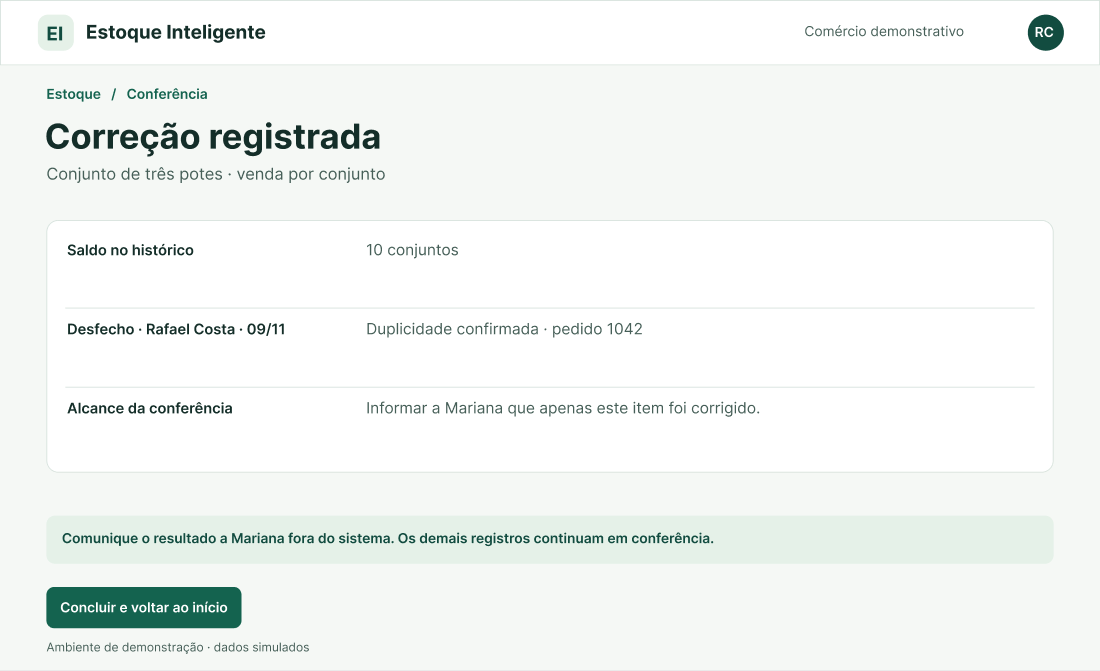
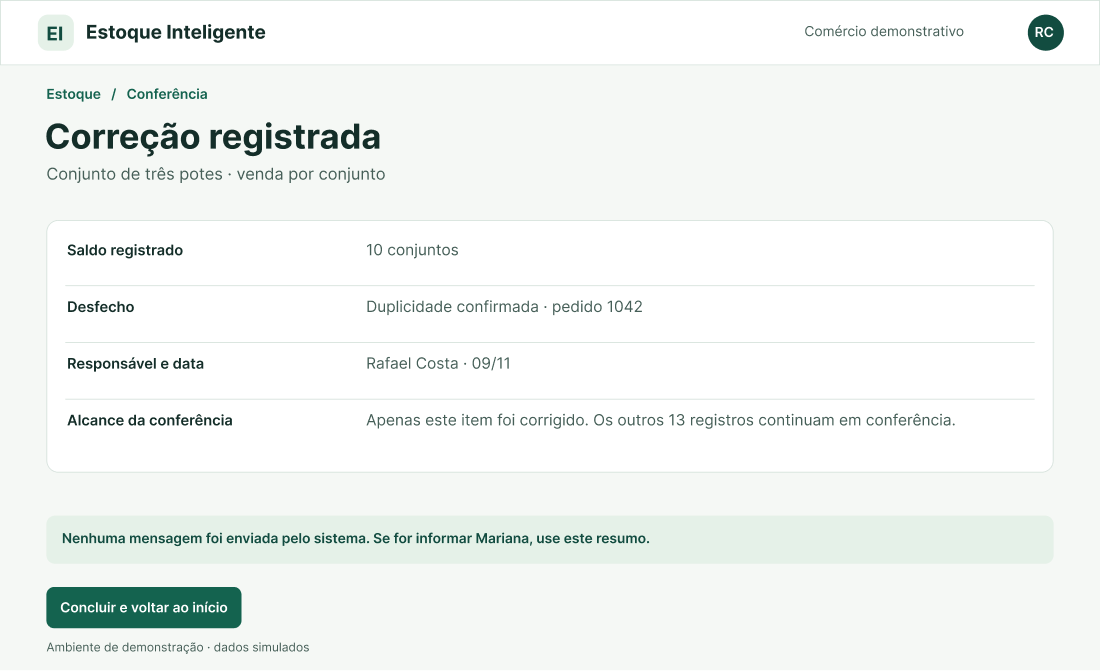
Atualiza a captura de F13 com a versão revisada do Figma
Claude-Session: https://claude.ai/code/session_01HTyh9THEp8q68sQNbkQiKB

diff --git a/docs/11_figma.md b/docs/11_figma.md
@@ -75,7 +75,7 @@ Quando aplicável, considere: vazio/sem dados; carregamento/processamento; suces
 
 ### F13 — Correção registrada
 
-![Histórico com saldo de dez conjuntos e alcance da correção](../assets/11_figma/f13.png)
+![Correção registrada: saldo registrado de dez conjuntos, desfecho, responsável e data em linha própria e alcance limitado a este item; aviso de que nenhuma mensagem foi enviada](../assets/11_figma/f13.png)
 
 **Objetivo do usuário:** conferir o saldo corrigido e explicar à proprietária qual item foi resolvido.  
 **Signos principais:** saldo após a correção, responsável, data, justificativa e alcance parcial.  
